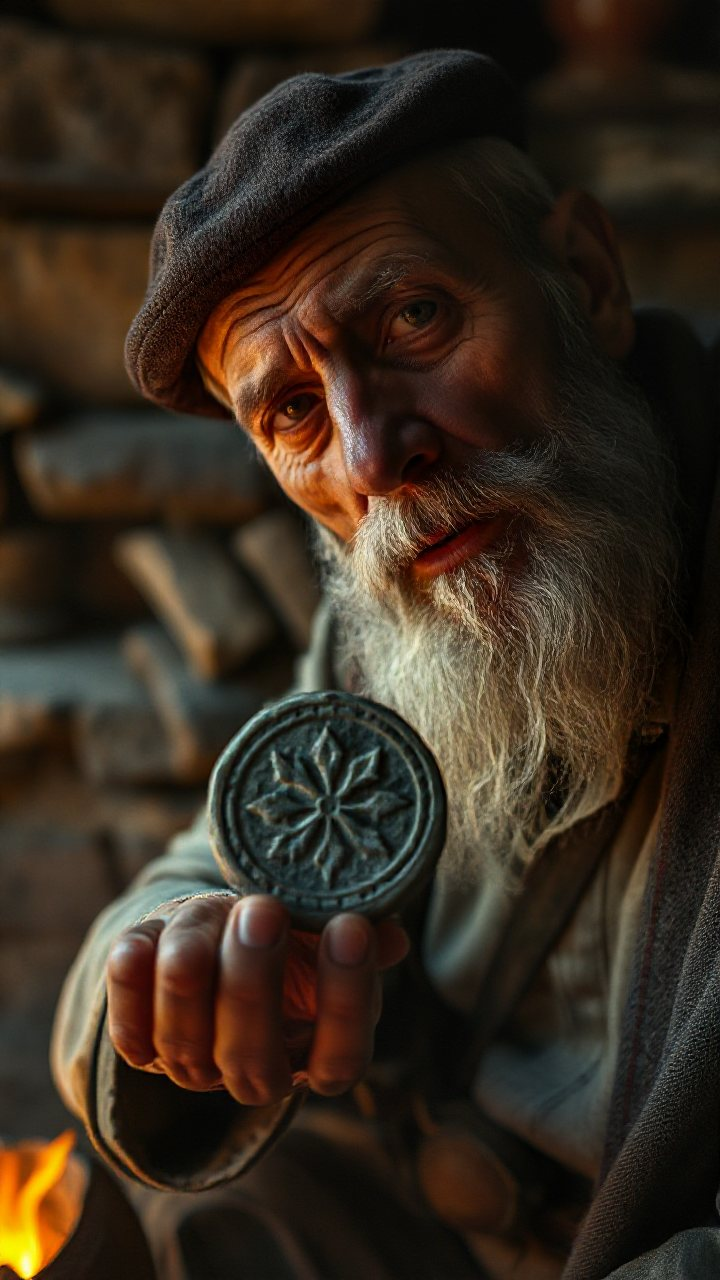
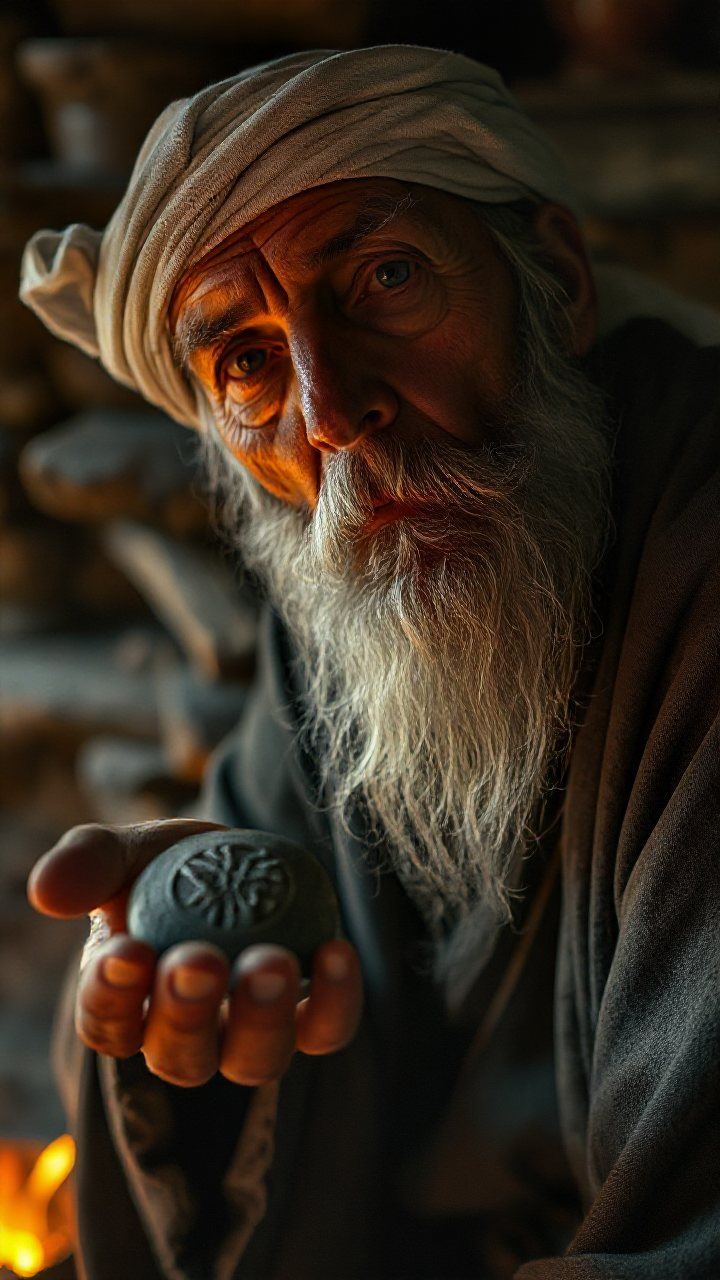
Sinematik: mühürlü yaşlı sahnesi döneme uygun sarıkla yenilendi

diff --git a/mobile/assets/sinematik/KAYNAK.md b/mobile/assets/sinematik/KAYNAK.md
@@ -11,6 +11,6 @@ Ortak üslup eki: `cinematic film still, photorealistic, 13th century Seljuk Ana
 | kosedag.jpg | 11 | aftermath of the battle of Kose Dag at dusk, broken Seljuk banners and shattered round shields on a muddy hillside, smoke drifting over the valley, a lone wounded Seljuk soldier in lamellar armor kneeling beside a fallen horse, distant Mongol horsemen silhouetted on a ridge |
 | yangin.jpg | 23 | night, a walled medieval Anatolian town burning on the horizon, orange flames and black smoke under a dark sky, refugees with bundles and an ox cart fleeing along a road in the foreground, embers in the air, Mongol horse archers silhouetted against the fire |
 | yolcu.jpg | 37 | snowy winter night, a wounded traveler in a torn fur-lined cloak leaning against the wooden door of a mud-brick village house, his bloodied hand clutching an ash-grey stone seal, warm lantern light spilling from the half-open door onto the snow, falling snow |
-| muhur.jpg | 41 | close-up, an old village elder with a white beard and felt cap sitting by a hearth fire at night, holding an ash-grey carved stone seal with an engraved ember motif in his weathered open palm, firelight on his face, solemn expression, dark mud-brick interior |
+| muhur.jpg | 41 | close-up, an old village elder with a long white beard wearing a white wrapped turban and a dark wool robe, sitting by a hearth fire at night, holding an ash-grey carved stone seal with an engraved ember motif in his weathered open palm, firelight on his face, solemn expression, dark mud-brick interior |
 | cocukluk_e.jpg | 53 | a child of about ten in simple medieval Anatolian clothes standing on a grassy hill at golden hour, seen from behind, looking toward a vast valley with a distant caravan and mountains on the horizon, wind in the grass |
 | cocukluk_k.jpg | 59 | (kız çocuk sürümü) a girl of about ten in a simple medieval Anatolian dress with a light headscarf, standing on a grassy hill at golden hour, seen from behind |
